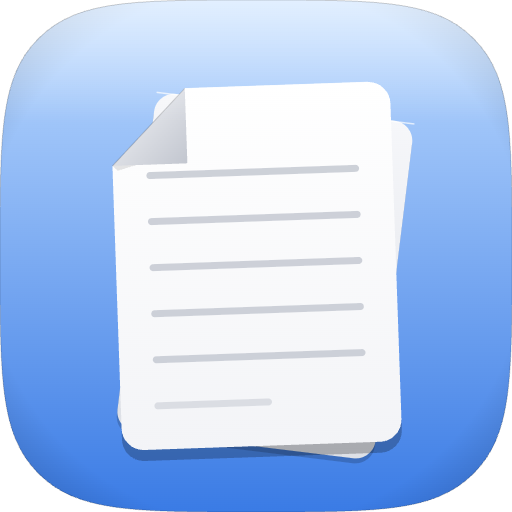
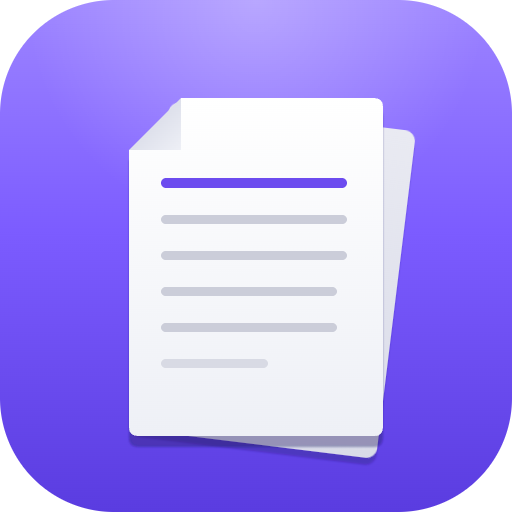
UI redesign (Direction 04A): floating tabs, raised panel, indigo accent
Integrates the Claude Design handoff (drop-in replacements; built + verified
here — the handoff was not compiled on their end):

- New theme tokens (DesignTokens, AppTheme, both Win11 themes): indigo accent
  (#7C5CFF dark / #6C4CEF light), chromeRail, editorPanel*, tabFloating* chips.
- Floating tab chips with a real fill + hairline border so inactive tabs read
  clearly over the dark rail — fixes the invisible-dark-mode-tabs bug.
- Close (×) on every tab, including inactive ones (close without activating).
- Raised, inset editor + status panel; transparent strip over the rail.
- Refined menu-bar scratchpad; new indigo-squircle app icon (10-size iconset).

Verified via screenshots: builds clean on first pass; dark AND light themes
render correctly; floating tabs clearly visible in dark mode; close buttons on
all tabs; ⌘F find bar still appears (EditorLayer observes the active tab —
no regression of the documented gotcha); "Check for Updates…" (auto-update)
intact. Icon is full-bleed, matching macpad's existing iconset style.

diff --git a/Sources/macpad/Views/Tabs/TabItemView.swift b/Sources/macpad/Views/Tabs/TabItemView.swift
@@ -1,8 +1,10 @@
 import SwiftUI
 
-// Single Win11-style tab. Sits in the 40pt title band; the visible chip
-// is 36pt tall with rounded top corners only — the bottom edge sits
-// flush with the editor so the active tab "merges with content."
+// Single Elevated-style tab (direction 04A). The tab is a floating rounded
+// chip that lifts off the darker rail: the active chip carries an indigo
+// hairline + a soft accent shadow, inactive chips a subtle fill + border.
+// The close button is ALWAYS visible (including on inactive tabs) so a tab
+// can be closed without first activating it.
 struct TabItemView: View {
     @ObservedObject var tab: TabState
     let isActive: Bool
@@ -29,62 +31,63 @@ struct TabItemView: View {
     @State private var isCloseHovering = false
 
     var body: some View {
-        let shape = UnevenRoundedRectangle(
-            topLeadingRadius: Dim.tabCornerRadius,
-            bottomLeadingRadius: 0,
-            bottomTrailingRadius: 0,
-            topTrailingRadius: Dim.tabCornerRadius
-        )
+        let shape = RoundedRectangle(cornerRadius: Dim.tabFloatingCornerRadius, style: .continuous)
         Button(action: onSelect) {
-            HStack(spacing: 6) {
+            HStack(spacing: 7) {
                 Image(systemName: "doc")
                     .font(.system(size: 12))
-                Text(displayTitle)
-                    .font(.system(size: FontRole.tabLabelSize))
+                    .foregroundStyle(isActive ? theme.accentMuted : theme.tabFloatingInactiveText.opacity(0.85))
+                Text(tab.displayName)
+                    .font(.system(size: FontRole.tabLabelSize, weight: isActive ? .semibold : .regular))
                     .lineLimit(1)
                     .truncationMode(.tail)
                 Spacer(minLength: 4)
+                if tab.isDirty {
+                    Circle()
+                        .fill(theme.accent)
+                        .frame(width: 6, height: 6)
+                        .shadow(color: theme.accent.opacity(0.7), radius: 3)
+                }
                 closeButton
             }
-            .padding(.horizontal, Dim.tabHorizontalPadding)
+            .padding(.horizontal, 11)
             .frame(minWidth: Dim.tabMinWidth, maxWidth: Dim.tabMaxWidth, alignment: .leading)
-            .frame(height: Dim.tabHeight)
-            .foregroundStyle(isActive ? theme.tabActiveText : theme.tabInactiveText)
-            .background(
-                shape.fill(backgroundFill)
-            )
+            .frame(height: Dim.tabFloatingHeight)
+            .foregroundStyle(isActive ? theme.tabActiveText : theme.tabFloatingInactiveText)
+            .background(shape.fill(backgroundFill))
+            .overlay(shape.strokeBorder(borderColor, lineWidth: 1))
+            .shadow(color: isActive ? theme.accent.opacity(0.28) : .clear, radius: 8, x: 0, y: 2)
             .contentShape(shape)
         }
         .buttonStyle(.plain)
-        .padding(.top, Dim.titleBarHeight - Dim.tabHeight)   // anchor to bottom of title band
+        .padding(.vertical, (Dim.titleBarHeight - Dim.tabFloatingHeight) / 2)   // center the chip in the title band
         .onHover { hovering in
             withAnimation(.easeOut(duration: Motion.hover)) { isHovering = hovering }
         }
     }
 
-    private var displayTitle: String {
-        tab.isDirty ? "\(tab.displayName) •" : tab.displayName
+    private var backgroundFill: Color {
+        if isActive { return theme.tabFloatingActiveFill }
+        if isHovering { return theme.subtleHoverFill }
+        return theme.tabFloatingInactiveFill
     }
 
-    private var backgroundFill: Color {
-        if isActive { return theme.tabActiveFill }
-        if isHovering { return theme.tabHoverFill }
-        return Color.clear
+    private var borderColor: Color {
+        isActive ? theme.tabFloatingActiveBorder : theme.tabFloatingInactiveBorder
     }
 
     @ViewBuilder
     private var closeButton: some View {
-        // Active tab always shows close; inactive only on hover.
-        let visible = isActive || isHovering
+        // Always visible — on the active AND inactive tabs.
         Button(action: { (onCloseWithPrompt ?? onClose)() }) {
             Image(systemName: "xmark")
                 .font(.system(size: 9, weight: .medium))
                 .frame(width: Dim.tabCloseSize, height: Dim.tabCloseSize)
+                .foregroundStyle(isCloseHovering ? theme.tabActiveText : theme.tabFloatingInactiveText)
                 .background(
-                    RoundedRectangle(cornerRadius: 3)
+                    RoundedRectangle(cornerRadius: 4)
                         .fill(isCloseHovering ? theme.subtleHoverFill : Color.clear)
                 )
-                .opacity(visible ? 1 : 0)
         }
         .buttonStyle(.plain)
         .onHover { hovering in

diff --git a/Sources/macpad/Views/MenuBar/MenuBarScratchpadView.swift b/Sources/macpad/Views/MenuBar/MenuBarScratchpadView.swift
@@ -9,45 +9,96 @@ import AppKit
 // so it survives quit; Clear empties it. Sending reuses the same
 // `TabBookViewModel.receiveExternalText` plumbing as the "Send to macpad"
 // Services feature, reached via the `AppDelegate.shared` singleton.
+//
+// Elevated direction (04A): indigo accent, a rounded inset text field, a
+// prominent "New tab" action, and a refined "Open macpad" affordance with a
+// proper external-link glyph (replacing the old stray ↗).
 struct MenuBarScratchpadView: View {
     @EnvironmentObject private var settingsManager: SettingsManager
+    @Environment(\.colorScheme) private var colorScheme
+
+    private var accent: Color {
+        colorScheme == .dark ? Color(red: 0.486, green: 0.361, blue: 1.0)   // #7C5CFF
+                             : Color(red: 0.424, green: 0.298, blue: 0.937) // #6C4CEF
+    }
 
     private var isBlank: Bool {
         settingsManager.scratchpadText.trimmingCharacters(in: .whitespacesAndNewlines).isEmpty
     }
 
     var body: some View {
-        VStack(alignment: .leading, spacing: 8) {
-            Text("Scratchpad")
-                .font(.system(size: 12, weight: .semibold))
-                .foregroundStyle(.secondary)
+        VStack(alignment: .leading, spacing: 10) {
+            // Header
+            HStack(spacing: 7) {
+                Image(systemName: "note.text")
+                    .font(.system(size: 12, weight: .semibold))
+                    .foregroundStyle(accent)
+                    .frame(width: 22, height: 22)
+                    .background(RoundedRectangle(cornerRadius: 6).fill(accent.opacity(0.15)))
+                Text("Scratchpad")
+                    .font(.system(size: 13, weight: .semibold))
+            }
 
+            // Inset, rounded text field
             TextEditor(text: $settingsManager.scratchpadText)
                 .font(.system(size: 12, design: .monospaced))
-                .frame(width: 264, height: 150)
+                .scrollContentBackground(.hidden)
+                .padding(8)
+                .frame(width: 264, height: 132)
+                .background(
+                    RoundedRectangle(cornerRadius: 8)
+                        .fill(Color(nsColor: .textBackgroundColor).opacity(colorScheme == .dark ? 0.35 : 0.6))
+                )
                 .overlay(
-                    RoundedRectangle(cornerRadius: 6)
-                        .strokeBorder(Color.secondary.opacity(0.3))
+                    RoundedRectangle(cornerRadius: 8)
+                        .strokeBorder(Color.primary.opacity(0.12))
                 )
 
+            // Primary actions
             HStack(spacing: 8) {
-                Button("New tab") { send(into: .newTab) }
-                    .disabled(isBlank)
-                Button("Add to current tab") { send(into: .currentTab) }
-                    .disabled(isBlank)
+                Button { send(into: .newTab) } label: {
+                    Text("New tab").frame(maxWidth: .infinity)
+                }
+                .buttonStyle(.borderedProminent)
+                .tint(accent)
+                .disabled(isBlank)
+
+                Button { send(into: .currentTab) } label: {
+                    Text("Add to current").frame(maxWidth: .infinity)
+                }
+                .buttonStyle(.bordered)
+                .disabled(isBlank)
             }
+            .controlSize(.large)
 
             Divider()
 
+            // Tertiary row
             HStack {
                 Button("Clear") { settingsManager.scratchpadText = "" }
+                    .buttonStyle(.plain)
+                    .foregroundStyle(.secondary)
                     .disabled(settingsManager.scratchpadText.isEmpty)
+
                 Spacer()
-                Button("Open macpad") { openMacpad() }
+
+                Button { openMacpad() } label: {
+                    HStack(spacing: 5) {
+                        Text("Open macpad")
+                        Image(systemName: "arrow.up.right")
+                            .font(.system(size: 10, weight: .semibold))
+                    }
+                    .font(.system(size: 12, weight: .medium))
+                    .padding(.horizontal, 10)
+                    .padding(.vertical, 5)
+                    .background(RoundedRectangle(cornerRadius: 7).fill(accent.opacity(0.14)))
+                }
+                .buttonStyle(.plain)
+                .foregroundStyle(accent)
             }
         }
-        .padding(12)
-        .frame(width: 288)
+        .padding(14)
+        .frame(width: 292)
     }
 
     // Push the scratchpad text into a macpad tab, then surface the window so

diff --git a/Sources/macpad/Views/ContentView.swift b/Sources/macpad/Views/ContentView.swift
@@ -85,6 +85,10 @@ struct ContentView: View {
 // Holds the active tab as @ObservedObject so it re-renders on the tab's own
 // publishes — crucially, when findState.isVisible toggles (⌘F / ⌘H). See the
 // note in ContentView.body for why this can't live inline in ContentView.
+//
+// Elevated direction (04A): the tab strip sits on a darker "rail," and the
+// editor + status bar are grouped into a single raised panel — rounded,
+// hairline-bordered, with a soft drop shadow, inset from the window edges.
 private struct EditorLayer: View {
     @ObservedObject var tab: TabState
     let theme: any AppTheme
@@ -92,6 +96,7 @@ private struct EditorLayer: View {
     var body: some View {
         VStack(spacing: 0) {
             TabStrip()
+
             if tab.findState.isVisible {
                 FindBar(
                     findState: tab.findState,
@@ -104,10 +109,23 @@ private struct EditorLayer: View {
                 )
                 .transition(.move(edge: .top).combined(with: .opacity))
             }
-            EditorPane()
-            StatusBarView(tab: tab, theme: theme)
+
+            // ── Raised editor panel ────────────────────────────────────────
+            VStack(spacing: 0) {
+                EditorPane()
+                StatusBarView(tab: tab, theme: theme)
+            }
+            .background(theme.editorPanelBackground)
+            .clipShape(RoundedRectangle(cornerRadius: Dim.editorPanelCornerRadius, style: .continuous))
+            .overlay(
+                RoundedRectangle(cornerRadius: Dim.editorPanelCornerRadius, style: .continuous)
+                    .strokeBorder(theme.divider, lineWidth: 1)
+            )
+            .shadow(color: .black.opacity(theme.isDark ? 0.45 : 0.13), radius: 14, x: 0, y: 6)
+            .padding(.horizontal, Dim.editorPanelInset)
+            .padding(.bottom, Dim.editorPanelInset)
         }
+        .background(theme.chromeRail)
         .animation(.easeOut(duration: Motion.findBarSlide), value: tab.findState.isVisible)
     }
 }
-

diff --git a/Sources/macpad/Views/Tabs/TabStrip.swift b/Sources/macpad/Views/Tabs/TabStrip.swift
@@ -1,10 +1,13 @@
 import SwiftUI
 import UniformTypeIdentifiers
 
-// The full Win11 title-band: traffic-light inset + horizontal tab list +
+// The full title band: traffic-light inset + horizontal tab list +
 // new-tab button + spacer + settings gear. Lives in the 40pt zone above
-// the editor. Tabs scroll horizontally if they overflow (Phase 14 may
-// add overflow chevrons in true Win11 style).
+// the editor panel.
+//
+// Elevated direction (04A): the band is drawn over the darker `chromeRail`
+// (set on the parent EditorLayer), and the tabs are floating chips centered
+// vertically in the band rather than bottom-anchored merged tabs.
 struct TabStrip: View {
     @EnvironmentObject var appState: AppState
     @EnvironmentObject var themeManager: ThemeManager
@@ -18,7 +21,7 @@ struct TabStrip: View {
             Color.clear.frame(width: 12)
 
             ScrollView(.horizontal, showsIndicators: false) {
-                HStack(spacing: 0) {
+                HStack(spacing: Dim.tabFloatingSpacing) {
                     ForEach(appState.book.tabs) { tab in
                         TabItemView(
                             tab: tab,
@@ -54,11 +57,12 @@ struct TabStrip: View {
             SettingsGearButton(theme: theme) {
                 appState.isShowingSettings.toggle()
             }
-            .padding(.top, Dim.titleBarHeight - Dim.chromeButtonSize)
             .padding(.trailing, 4)
         }
         .frame(height: Dim.titleBarHeight)
-        .background(theme.chromeBackgroundTint)
+        // Background comes from EditorLayer's chromeRail; keep this clear so
+        // the rail reads as one continuous surface behind tabs and panel.
+        .background(Color.clear)
     }
 }
 

diff --git a/Sources/macpad/Theme/Themes/Win11LightTheme.swift b/Sources/macpad/Theme/Themes/Win11LightTheme.swift
@@ -37,4 +37,15 @@ struct Win11LightTheme: AppTheme {
     let settingsCardBackground      = Color(argbHex: 0x80FFFFFF)        // LayerFillColorDefault
     let settingsCardBorder          = Color(argbHex: 0x0F000000)
     let settingsRowSeparator        = Color(argbHex: 0x0F000000)
+
+    // ── Elevated direction (04A) ───────────────────────────────────────────
+    let accent                      = Color(hex: 0x6C4CEF)              // indigo
+    let accentMuted                 = Color(hex: 0x6C4CEF)
+    let chromeRail                  = Color(argbHex: 0x1A000000)        // 10% black over Mica — the darker rail
+    let editorPanelBackground       = Color(hex: 0xF9F9F9)             // == editorBackground (the raised surface)
+    let tabFloatingActiveFill       = Color(hex: 0xFFFFFF)             // pure white chip lifts off the off-white rail
+    let tabFloatingActiveBorder     = Color(argbHex: 0x736C4CEF)        // accent @ ~45%
+    let tabFloatingInactiveFill     = Color(argbHex: 0x08000000)        // 3% black
+    let tabFloatingInactiveBorder   = Color(argbHex: 0x17000000)        // 9% black
+    let tabFloatingInactiveText     = Color(hex: 0x666666)
 }

diff --git a/Sources/macpad/Theme/AppTheme.swift b/Sources/macpad/Theme/AppTheme.swift
@@ -40,4 +40,17 @@ protocol AppTheme {
     var settingsCardBackground: Color { get }
     var settingsCardBorder: Color { get }
     var settingsRowSeparator: Color { get }
+
+    // ── Elevated direction (04A) ───────────────────────────────────────────
+    // Indigo accent, floating tab chips, and a raised editor panel that sits
+    // on a darker "rail." See ContentView.EditorLayer and TabItemView.
+    var accent: Color { get }                      // primary indigo (dirty dot, 100% zoom, active border)
+    var accentMuted: Color { get }                 // softer indigo for the active tab's doc icon
+    var chromeRail: Color { get }                  // tint drawn over Mica behind tabs + around the panel
+    var editorPanelBackground: Color { get }       // raised editor surface (== editorBackground)
+    var tabFloatingActiveFill: Color { get }       // active chip fill (lifts off the rail)
+    var tabFloatingActiveBorder: Color { get }     // accent-tinted hairline around the active chip
+    var tabFloatingInactiveFill: Color { get }
+    var tabFloatingInactiveBorder: Color { get }
+    var tabFloatingInactiveText: Color { get }
 }

diff --git a/Sources/macpad/Theme/Themes/Win11DarkTheme.swift b/Sources/macpad/Theme/Themes/Win11DarkTheme.swift
@@ -36,4 +36,15 @@ struct Win11DarkTheme: AppTheme {
     let settingsCardBackground      = Color(argbHex: 0x4C3A3A3A)
     let settingsCardBorder          = Color(argbHex: 0x19000000)
     let settingsRowSeparator        = Color(argbHex: 0x12FFFFFF)
+
+    // ── Elevated direction (04A) ───────────────────────────────────────────
+    let accent                      = Color(hex: 0x7C5CFF)              // indigo
+    let accentMuted                 = Color(hex: 0x9B82FF)
+    let chromeRail                  = Color(argbHex: 0x59000000)        // 35% black over Mica — the darker rail
+    let editorPanelBackground       = Color(hex: 0x282828)             // == editorBackground (the raised surface)
+    let tabFloatingActiveFill       = Color(hex: 0x282828)             // matches the panel; the chip "lifts" via border + shadow
+    let tabFloatingActiveBorder     = Color(argbHex: 0x737C5CFF)        // accent @ ~45%
+    let tabFloatingInactiveFill     = Color(argbHex: 0x08FFFFFF)        // 3% white
+    let tabFloatingInactiveBorder   = Color(argbHex: 0x14FFFFFF)        // 8% white
+    let tabFloatingInactiveText     = Color(hex: 0x9D9D9D)
 }

diff --git a/Sources/macpad/Views/Tabs/NewTabButton.swift b/Sources/macpad/Views/Tabs/NewTabButton.swift
@@ -1,8 +1,9 @@
 import SwiftUI
 
-// "+" button immediately after the last tab. Matches Win11's tab strip
-// layout (the button moves rightward as tabs open, not fixed at the
-// right edge of the window).
+// "+" button immediately after the last tab. Matches the tab strip layout
+// (the button moves rightward as tabs open, not fixed at the right edge of
+// the window). Elevated direction (04A): centered vertically in the band to
+// line up with the floating tab chips.
 struct NewTabButton: View {
     let theme: any AppTheme
     let action: () -> Void
@@ -21,7 +22,6 @@ struct NewTabButton: View {
         }
         .buttonStyle(.plain)
         .foregroundStyle(theme.tabActiveText)
-        .padding(.top, Dim.titleBarHeight - Dim.chromeButtonSize)
         .onHover { hovering in
             withAnimation(.easeOut(duration: Motion.hover)) { isHovering = hovering }
         }

diff --git a/Sources/macpad/Theme/DesignTokens.swift b/Sources/macpad/Theme/DesignTokens.swift
@@ -18,6 +18,13 @@ enum Dim {
     static let tabCornerRadius: CGFloat = 6        // top corners only
     static let tabHorizontalPadding: CGFloat = 8
 
+    // Elevated direction (04A) — floating tabs + raised editor panel
+    static let editorPanelInset: CGFloat = 8       // gap between panel and window edges (sides + bottom)
+    static let editorPanelCornerRadius: CGFloat = 10
+    static let tabFloatingHeight: CGFloat = 32     // visible chip height inside the title band
+    static let tabFloatingCornerRadius: CGFloat = 8
+    static let tabFloatingSpacing: CGFloat = 6     // gap between chips
+
     // Buttons (new tab, settings gear, find bar)
     static let chromeButtonSize: CGFloat = 32
     static let chromeButtonIcon: CGFloat = 16
